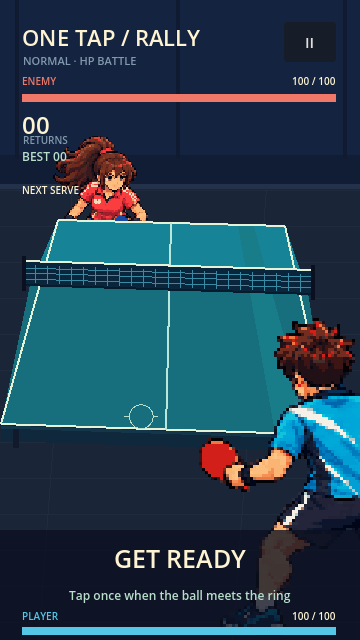
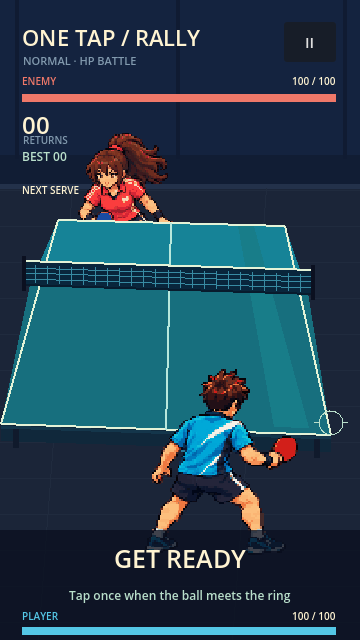
Keep both players right handed in opposing court positions

diff --git a/docs/GRAPHICS_CONTRACT.md b/docs/GRAPHICS_CONTRACT.md
@@ -6,7 +6,7 @@
 
 - 고정 시점: 플레이어 등 뒤에서 약간 높은 2D 화면. 내부 캔버스 360×640, 세로 9:16, Nearest. 카메라 이동은 없다.
 - 탁구대 좌표: `x=-1`/`x=1`은 논리 좌우 가장자리이며, 현재 `mirror_view=true`에서는 각각 화면 오른쪽/왼쪽에 나타난다. `depth=0`은 상대 쪽 먼 가장자리, `depth=1`은 플레이어 쪽 가까운 가장자리다. `height`는 화면에서 위로 올릴 픽셀 수다.
-- 투영의 **단일 기준값**은 [`assets/table/layout.json`](../assets/table/layout.json)이다. 실제 공·그림자·접촉점과 탁구대·네트의 윤곽은 모두 `CourtView.project_point()`를 사용한다. `court_scale`과 `court_offset`이 가까운 구도의 크기/위치를 조절한다. `mirror_view=true`는 화면 가로 중심을 기준으로 투영과 캐릭터를 뒤집어 플레이어를 오른쪽 전경, 상대를 왼쪽 원경에 놓는다. UI 글자와 HUD는 반전하지 않는다. `tools/assets/build_court.py`의 탁구대·네트 PNG는 이전 래스터 시안이며 현재 런타임 윤곽에는 사용하지 않는다.
+- 투영의 **단일 기준값**은 [`assets/table/layout.json`](../assets/table/layout.json)이다. 실제 공·그림자·접촉점과 탁구대·네트의 윤곽은 모두 `CourtView.project_point()`를 사용한다. `court_scale`과 `court_offset`이 가까운 구도의 크기/위치를 조절한다. `mirror_view=true`는 화면 가로 중심을 기준으로 **탁구대·공 투영만** 뒤집는다. 두 캐릭터의 원본 오른손잡이 스프라이트와 UI 글자는 뒤집지 않는다. 시작점 `x=1`은 왼쪽 상대의 라켓, 타격점 `x=-1`은 오른쪽 플레이어의 라켓에 맞는다. `tools/assets/build_court.py`의 탁구대·네트 PNG는 이전 래스터 시안이며 현재 런타임 윤곽에는 사용하지 않는다.
 - 양쪽 라켓의 논리 접촉점은 패턴 Resource의 `start_point`/`hit_point`다. 미술 작업에서 타격점을 옮겨 타이밍을 맞추지 않는다. 모든 패턴의 목표점은 동일한 플레이어 위치로 수렴한다.
 
 ## 2. 화면 가림 순서
@@ -27,7 +27,7 @@
 | 배경 | 360×640 불투명 PNG | 선수/공보다 낮은 대비, 주요 UI와 접촉점 주변은 단순하게 유지한다. |
 | UI·효과 | 별도 CanvasLayer/표시 효과 | 게임 규칙을 직접 변경하지 않고 전투 이벤트만 받아 표시한다. |
 
-**128×128은 캐릭터의 원본 셀 크기이지 게임에서 보이는 크기가 아니다.** 현재 `player_scale=3`, `enemy_scale=1.55`라 상대의 1픽셀은 화면에서 균일한 정수 픽셀이 아니다. 이는 프로토타입의 구도 조정값이며, 최종 캐릭터를 대량 제작하기 전 iPhone 화면에서 도트 선명도와 상대 크기를 검토해야 한다. 필요하면 더 적합한 원본 크기/정수 배율로 에셋 전체를 함께 바꾼다. 개별 캐릭터마다 임의로 스케일을 달리해 접촉점을 맞추지 않는다.
+**128×128은 캐릭터의 원본 셀 크기이지 게임에서 보이는 크기가 아니다.** 현재 `player_scale=1.8`, `enemy_scale=1.55`라 두 캐릭터의 1픽셀은 화면에서 균일한 정수 픽셀이 아니다. 이는 프로토타입의 구도 조정값이며, 최종 캐릭터를 대량 제작하기 전 iPhone 화면에서 도트 선명도와 상대 크기를 검토해야 한다. 필요하면 더 적합한 원본 크기/정수 배율로 에셋 전체를 함께 바꾼다. 개별 캐릭터마다 임의로 스케일을 달리해 접촉점을 맞추지 않는다.
 
 ## 4. 새 그래픽 투입 절차
 

diff --git a/docs/GAME_DESIGN.md b/docs/GAME_DESIGN.md
@@ -17,7 +17,7 @@
 상단: 상대 HP/캐릭터/필요시 상태. 중앙: 탁구대·네트·공·바운드. 하단: 플레이어·HP·판정 피드백. 필수 요소는 Safe Area 안에 배치하며 다른 iPhone 비율에서도 겹침/잘림을 방지한다.
 
 ## 5. 등 뒤의 약간 높은 고정 시점
-최신 사용자 지시: 플레이어 등 뒤에서 약간 높은 고정 구도. 플레이어는 화면 오른쪽 전경, 상대는 왼쪽 원경에 배치한다. 카메라 이동·회전·추적·각도 변화, 플레이어 이동, 3D 카메라/모델 없음. 2D 탁구대 좌표와 공 위치·크기·높이·그림자로 원근 표현. 화면 흔들림도 카메라 이동으로 구현하지 않는다.
+최신 사용자 지시: 플레이어 등 뒤에서 약간 높은 고정 구도. 플레이어는 화면 오른쪽 전경, 상대는 왼쪽 원경에 배치하며 둘 다 오른손잡이다. 카메라 이동·회전·추적·각도 변화, 플레이어 이동, 3D 카메라/모델 없음. 2D 탁구대 좌표와 공 위치·크기·높이·그림자로 원근 표현. 화면 흔들림도 카메라 이동으로 구현하지 않는다.
 
 ## 6. 원버튼 조작
 확정: 화면 터치 한 번 = 스윙. 디버그용 클릭/키보드 허용. 방향키·조이스틱·드래그·별도 공격/방어/스매시 버튼 없음. 공 한 개당 한 스윙, 스윙 중 추가 입력 무시. 너무 빠른 입력도 스윙을 소모한다. 전투 종료/결과 화면 전투 입력 차단. 모든 좌우 코스는 고정 플레이어가 타이밍만으로 리턴 가능해야 한다.
@@ -139,7 +139,7 @@ AI/반격 연결은 미확정 항목에 대한 작은 초기 구현 선택이며
 사용자 요청에 따라 Phase 3을 구현하고 main에 반영한다. 수동 검수는 개발 후에 진행한다.
 
 ### 공 패턴의 초기 데이터
-시간은 기본 보통 난이도의 초 단위. 모든 시작점은 (0,0,16), 타격점은 (0.15,1,16)이며 좌우 움직임은 시각 궤적이다. 바운드 비율은 **실제 이동 시간의 비율**이고, 속도 리듬과 분리한다.
+시간은 기본 보통 난이도의 초 단위. 현재 모든 시작점은 (1,0,40), 타격점은 (-1,1,16)이며 화면에서는 왼쪽 상대의 오른손 라켓에서 오른쪽 플레이어의 오른손 라켓으로 향한다. 좌우 움직임은 시각 궤적이다. 바운드 비율은 **실제 이동 시간의 비율**이고, 속도 리듬과 분리한다.
 
 | ID/이름 | 도착 시간 | 리턴 시간 | 바운드 | 높이 px | 난이도 | 강한 공격 | 리듬/좌우 |
 |---|---:|---:|---:|---:|---:|---|---|

diff --git a/docs/ROADMAP.md b/docs/ROADMAP.md
@@ -112,5 +112,5 @@ Phase 1~5 프로토타입 구현과 자동 검증 완료. 사용자의 직접 10
 - 엔진 2,640검사 및 캐릭터/Phase 3/Phase 5 가상 화면 검사 통과. 새 구도와 팔 동작의 재미·iPhone 크기는 직접 검수 대기. [그래픽 계약](GRAPHICS_CONTRACT.md).
 
 ## 2026-10-14 좌우 배치 변경
-- 사용자 요청으로 플레이어를 오른쪽 전경, 상대를 왼쪽 원경에 배치했다. 화면 투영, 캐릭터 프레임 및 라켓 접촉 기준을 함께 반전하고 텍스트 UI는 유지했다.
-- 엔진 2,640검사와 캐릭터·Phase 5 가상 화면 검사를 통과했다. iPhone 화면에서의 최종 크기와 가독성은 사용자 검수 대기다.
+- 사용자 요청으로 플레이어를 오른쪽 전경, 상대를 왼쪽 원경에 배치했다. 초기 시안에서는 캐릭터까지 뒤집어 왼손잡이가 되었으므로, 후속 요청에 따라 양측 오른손잡이 원본 포즈를 복원했다. 탁구대 투영만 반전하고 공의 시작점·타격점을 각 라켓에 맞췄다. 텍스트 UI는 유지했다.
+- 오른손잡이 포즈와 양쪽 라켓 접촉점을 재확인한 최종 구성은 엔진 2,641검사와 캐릭터·Phase 3·Phase 5 가상 화면 검사를 통과했다. iPhone 화면에서의 최종 크기와 가독성은 사용자 검수 대기다.

diff --git a/docs/USER_QA.md b/docs/USER_QA.md
@@ -56,7 +56,7 @@ Godot 4.6.3 stable에서 project.godot를 Import → F5. 기본 보통 난이도
 
 
 ## 근접 경기장 수동 검수 대기
-- [ ] 플레이어 오른쪽 전경·상대 왼쪽 원경의 등 뒤 시점과 시안의 집중 구도가 맞는지
+- [ ] 오른손잡이 플레이어 오른쪽 전경·오른손잡이 상대 왼쪽 원경의 등 뒤 시점과 시안의 집중 구도가 맞는지
 - [ ] 360×640 및 실제 iPhone에서 탁구대·선수·공이 지나치게 크거나 작지 않은지
 - [ ] 네트 앞뒤로 지나는 공과 접촉 링이 눈에 잘 띄는지
 - [ ] 하단 HP/판정 문구가 전경 플레이어와 겹쳐도 읽히는지
